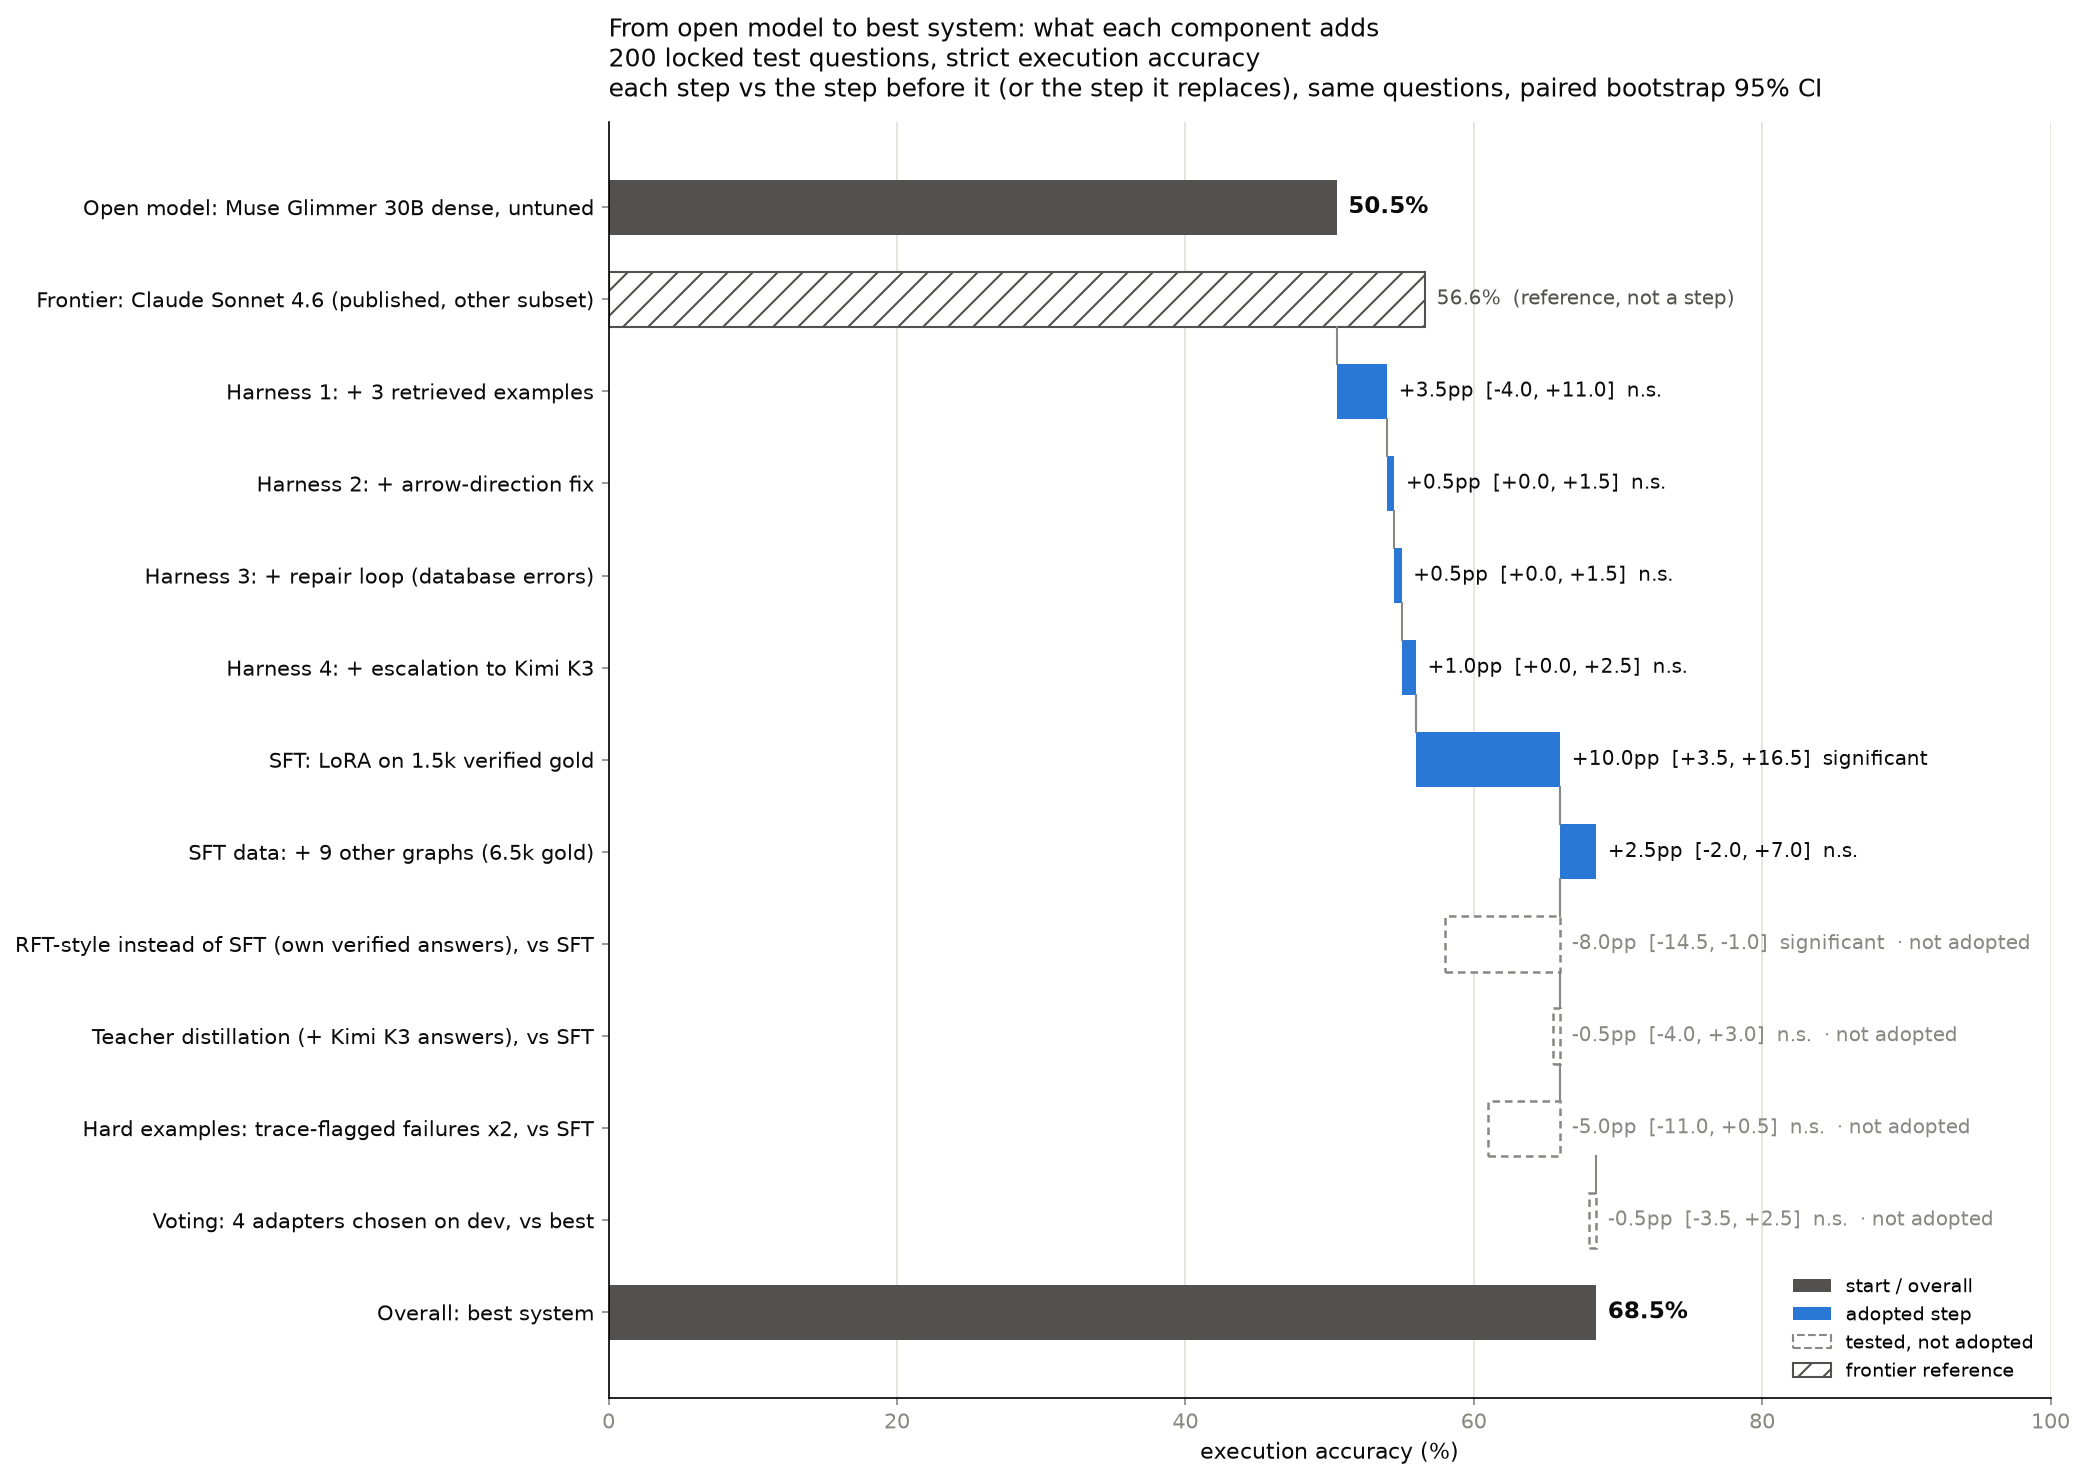
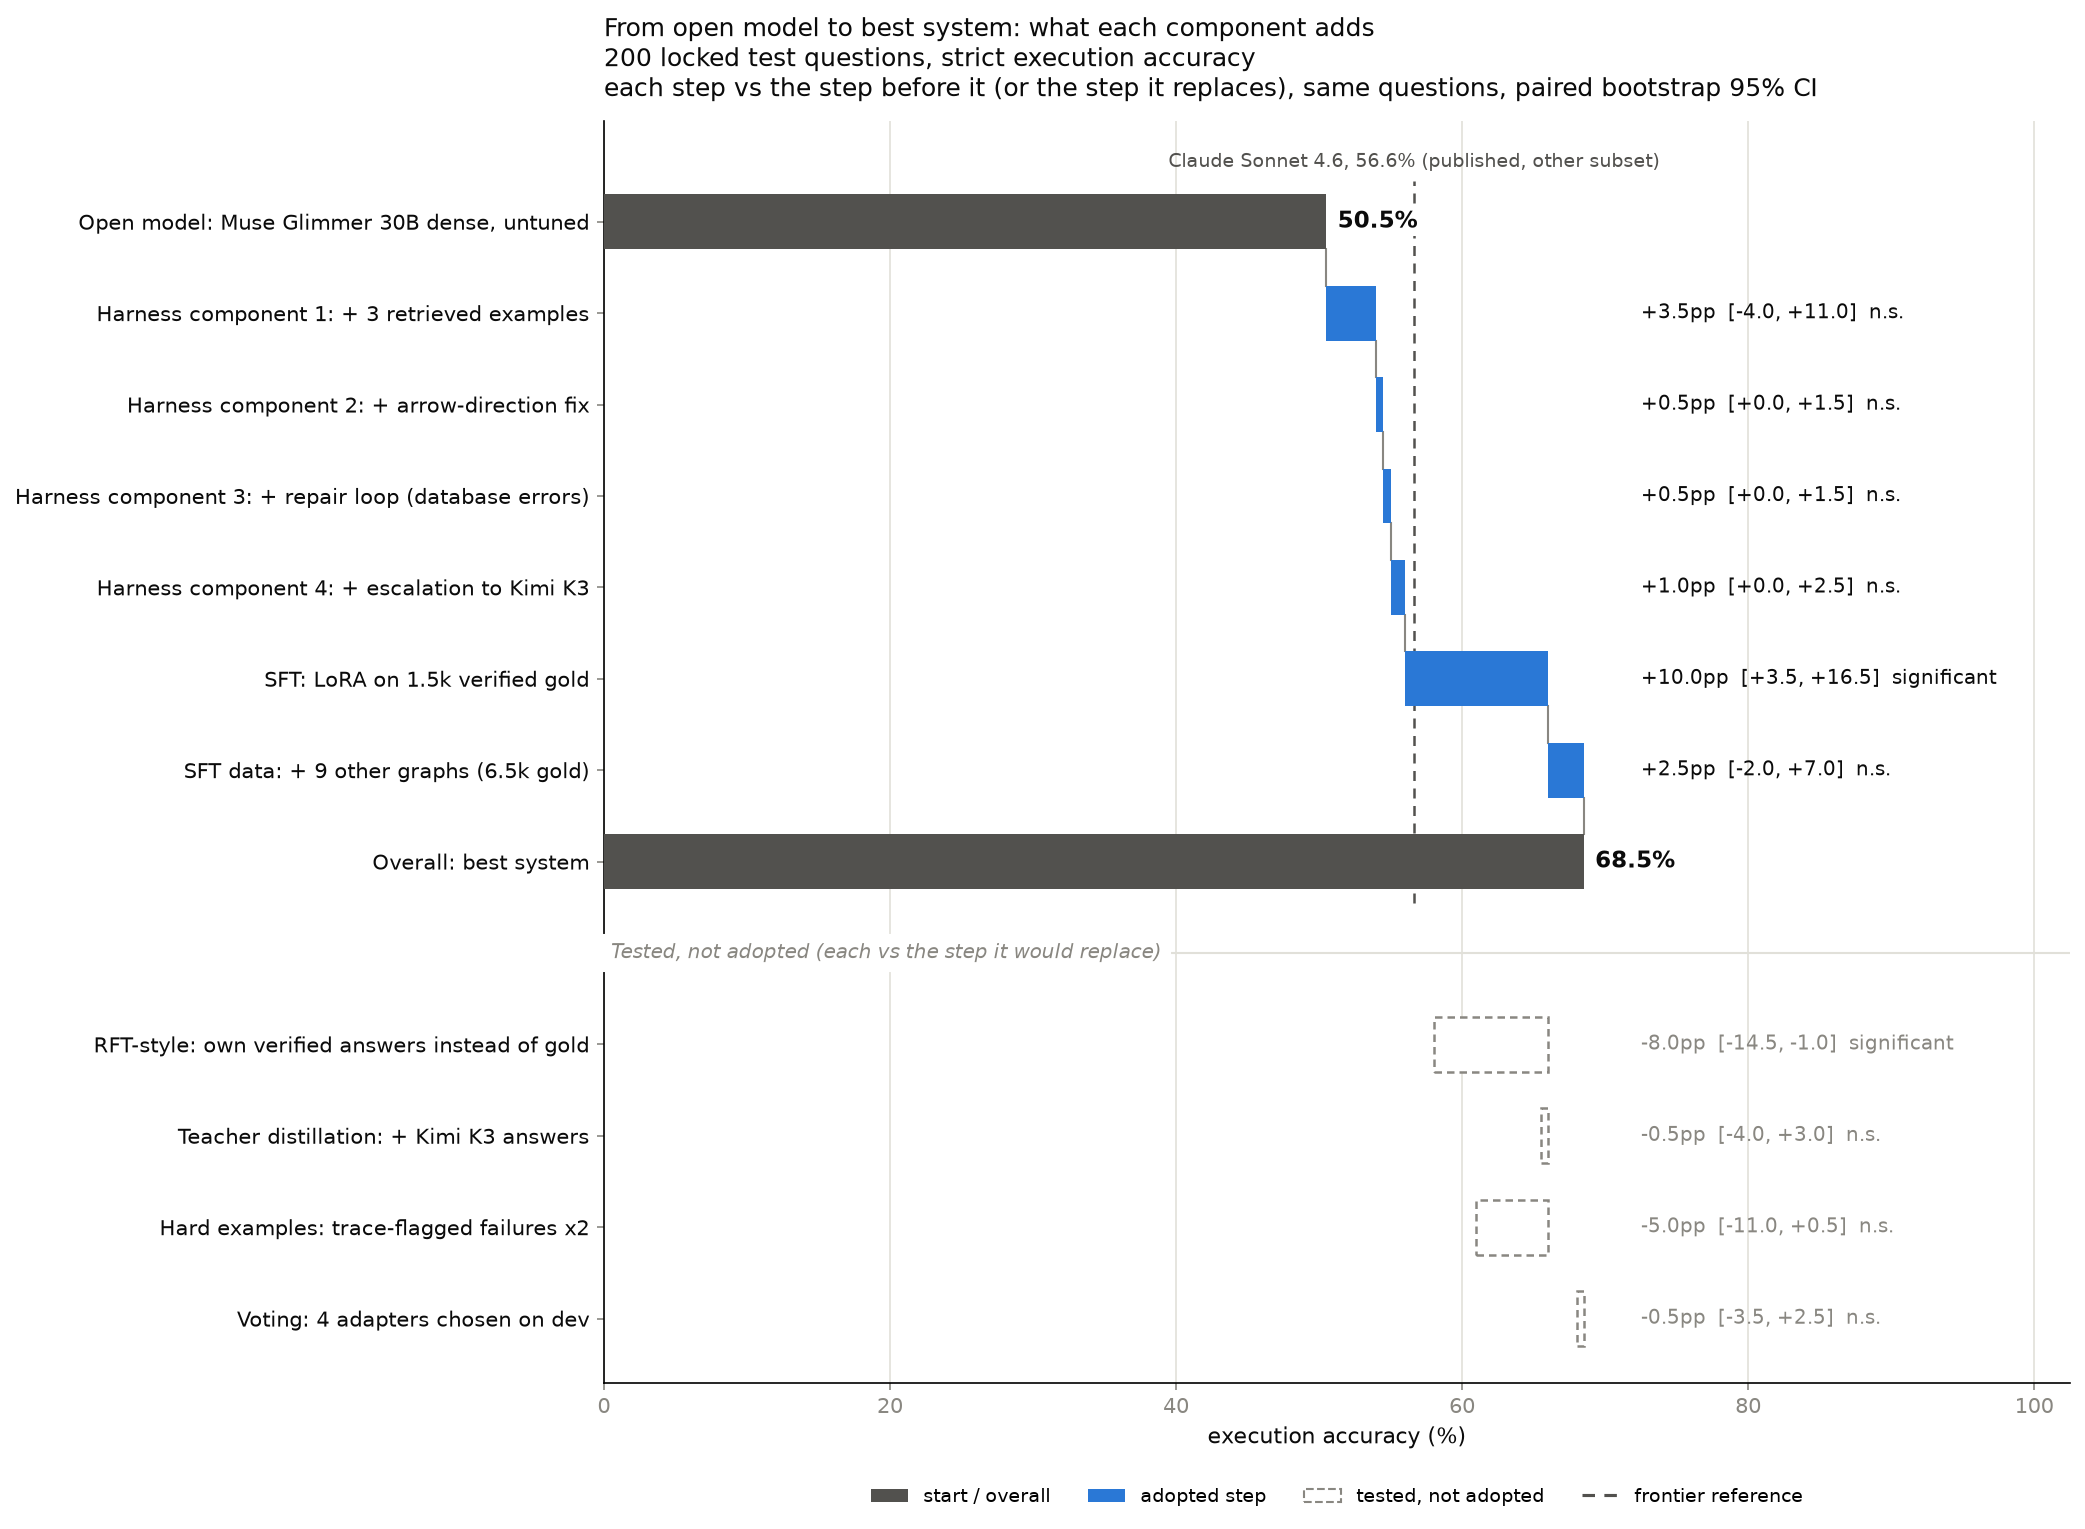
Waterfall charts: harness components, aligned labels, separate tested-not-adopted block

diff --git a/hackathon/cypher/dashboard/waterfall.py b/hackathon/cypher/dashboard/waterfall.py
@@ -6,13 +6,14 @@
 Each step is one result file read at one stage, compared with the previous step on the same questions (paired
 bootstrap 95% CI, compare.py). Steps that were tested but not adopted (they did not beat the step before) are drawn
 hollow and do not move the running total. The frontier is a published number on another subset, so it is a reference
-bar, not a step (it is omitted with --valid, where it would not be comparable).
+line, not a step (it is omitted with --valid, where it would not be comparable).
 """
 import json, os, sys
 
 import matplotlib
 matplotlib.use("Agg")
 import matplotlib.pyplot as plt
+from matplotlib.lines import Line2D
 from matplotlib.patches import Patch
 
 HERE = os.path.dirname(os.path.abspath(__file__))
@@ -28,20 +29,22 @@ START = ("Open model: Muse Glimmer 30B dense, untuned", "r1_base", "first")
 # (label, file, stage, adopted, compare_with). An adopted step becomes the new running total. A non-adopted step is an
 # alternative, compared with the step it would have replaced (compare_with = that step's file and stage).
 STEPS = [
-    ("Harness 1: + 3 retrieved examples", "r5_full", "first", True, None),
-    ("Harness 2: + arrow-direction fix", "r5_full", "fix", True, None),
-    ("Harness 3: + repair loop (database errors)", "r5_full", "repair", True, None),
-    ("Harness 4: + escalation to Kimi K3", "r5_full", "escalate", True, None),
+    ("Harness component 1: + 3 retrieved examples", "r5_full", "first", True, None),
+    ("Harness component 2: + arrow-direction fix", "r5_full", "fix", True, None),
+    ("Harness component 3: + repair loop (database errors)", "r5_full", "repair", True, None),
+    ("Harness component 4: + escalation to Kimi K3", "r5_full", "escalate", True, None),
     ("SFT: LoRA on 1.5k verified gold", "r6_ft1", "escalate", True, None),
     ("SFT data: + 9 other graphs (6.5k gold)", "r6bx_ftbx", "escalate", True, None),
-    ("RFT-style instead of SFT (own verified answers), vs SFT", "r7_ftd", "escalate", False, ("r6_ft1", "escalate")),
-    ("Teacher distillation (+ Kimi K3 answers), vs SFT", "r6kd_ftkd", "escalate", False, ("r6_ft1", "escalate")),
-    ("Hard examples: trace-flagged failures x2, vs SFT", "r6hf_fthf", "escalate", False, ("r6_ft1", "escalate")),
-    ("Voting: 4 adapters chosen on dev, vs best", "r20_vote_devpick", "first", False, None),
+    ("RFT-style: own verified answers instead of gold", "r7_ftd", "escalate", False, ("r6_ft1", "escalate")),
+    ("Teacher distillation: + Kimi K3 answers", "r6kd_ftkd", "escalate", False, ("r6_ft1", "escalate")),
+    ("Hard examples: trace-flagged failures x2", "r6hf_fthf", "escalate", False, ("r6_ft1", "escalate")),
+    ("Voting: 4 adapters chosen on dev", "r20_vote_devpick", "first", False, None),
 ]
 FRONTIER = 56.63  # claude-sonnet-4.6 zero-shot, CypherGuard (arxiv.org/html/2610.41755)
 
 INK, INK2, MUTED, GRID = "#0b0b0b", "#52514e", "#898781", "#e1e0d9"
+NOTE_GAP = 4  # the delta-label column starts this far right of the longest bar (and the frontier line)
+CLEAR = dict(facecolor="white", edgecolor="none", pad=1.5)
 UP, HOLD, TOTAL = "#2a78d6", "#c3c2b7", "#52514e"
 
 
@@ -54,7 +57,8 @@ def correct_by_id(tag, stage):
 def main():
     current = correct_by_id(*START[1:])
     start_acc = 100 * sum(current.values()) / len(current)
-    bars = [(START[0], 0, start_acc, "total", "")]
+    chain = [(START[0], 0, start_acc, "total", "")]  # the waterfall itself: start, adopted steps, overall
+    tried = []                                        # alternatives that were tested and not adopted
     level = start_acc
     for label, tag, stage, adopted, compare_with in STEPS:
         if not os.path.exists(os.path.join(ROOT, "results", f"{tag}.json")):
@@ -66,39 +70,64 @@ def main():
         sig = "significant" if lo > 0 or hi < 0 else "n.s."
         note = f"{diff:+.1f}pp  [{100 * lo:+.1f}, {100 * hi:+.1f}]  {sig}"
         if adopted:
-            bars.append((label, level, level + diff, "up" if diff >= 0 else "down", note))
+            chain.append((label, level, level + diff, "up", note))
             level += diff
             current = new
         else:  # drawn from the level of the step it is compared with
             ref_level = 100 * sum(ref.values()) / len(ref)
-            bars.append((label, ref_level, ref_level + diff, "hold", note + "  · not adopted"))
-    bars.append(("Overall: best system", 0, level, "total", ""))
-    if not VALID_ONLY:
-        bars.insert(1, ("Frontier: Claude Sonnet 4.6 (published, other subset)", 0, FRONTIER, "frontier", ""))
+            tried.append((label, ref_level, ref_level + diff, "hold", note))
+    chain.append(("Overall: best system", 0, level, "total", ""))
 
-    fig, ax = plt.subplots(figsize=(14, 0.62 * len(bars) + 1.9), dpi=150)
-    ys = list(range(len(bars)))[::-1]
-    for y, (label, a, b, kind, note) in zip(ys, bars):
+    # rows top to bottom: chain, a gap row, then the tested-but-not-adopted block
+    n_rows = len(chain) + (1 + len(tried) if tried else 0)
+    fig, ax = plt.subplots(figsize=(14, 0.62 * n_rows + 2.2), dpi=150)
+    top = n_rows - 1
+    chain_y = [top - k for k in range(len(chain))]
+    tried_y = [top - len(chain) - 1 - k for k in range(len(tried))]
+
+    ends = [max(a, b) for _, a, b, _, _ in chain + tried] + ([] if VALID_ONLY else [FRONTIER])
+    NOTE_X = max(ends) + NOTE_GAP  # one aligned column, clear of every bar and the frontier line
+    prev_end, prev_y = None, None
+    for y, (label, a, b, kind, note) in zip(chain_y, chain):
         lo_, hi_ = min(a, b), max(a, b)
         if kind == "total":
-            ax.barh(y, hi_, height=0.6, color=TOTAL)
-            ax.text(hi_ + 0.8, y, f"{hi_:.1f}%", va="center", fontsize=11, color=INK, fontweight="bold")
+            ax.barh(y, hi_, height=0.6, color=TOTAL, zorder=3)
+            ax.text(hi_ + 0.8, y, f"{hi_:.1f}%", va="center", fontsize=11, color=INK, fontweight="bold", bbox=CLEAR, zorder=4)
         elif kind == "frontier":
             ax.barh(y, hi_, height=0.6, color="white", edgecolor=INK2, hatch="//", linewidth=1)
             ax.text(hi_ + 0.8, y, f"{hi_:.1f}%  (reference, not a step)", va="center", fontsize=9.5, color=INK2)
+            continue  # not part of the chain: no connectors to or from it
         else:
-            if kind == "hold":
-                ax.barh(y, hi_ - lo_, left=lo_, height=0.6, color="white", edgecolor=MUTED, linewidth=1.2,
-                        linestyle=(0, (3, 2)))
-            else:
-                ax.barh(y, max(hi_ - lo_, 0.25), left=lo_, height=0.6, color=UP)
-            ax.text(hi_ + 0.8, y, note, va="center", fontsize=9.5, color=INK if kind != "hold" else MUTED)
-        if kind in ("up", "down", "hold"):  # connector from the running total
-            ax.plot([a, a], [y + 0.3, y + 0.7], color=MUTED, linewidth=1)
-    ax.set_yticks(ys, [b[0] for b in bars], fontsize=10)
+            ax.barh(y, max(hi_ - lo_, 0.25), left=lo_, height=0.6, color=UP, zorder=3)
+            ax.text(NOTE_X, y, note, va="center", fontsize=9.5, color=INK, zorder=4)
+        if prev_end is not None:  # connector: previous running total down to this bar
+            ax.plot([prev_end, prev_end], [prev_y - 0.3, y + 0.3], color=MUTED, linewidth=1)
+        prev_end, prev_y = (hi_ if kind == "total" else b), y
+
+    if not VALID_ONLY:  # frontier: a reference line over the chain rows, not a step (published, other subset)
+        ax.plot([FRONTIER, FRONTIER], [chain_y[-1] - 0.45, top + 0.45], color=INK2, linestyle=(0, (4, 3)), linewidth=1.2,
+                zorder=2)
+        ax.text(FRONTIER, top + 0.55, f"Claude Sonnet 4.6, {FRONTIER:.1f}% (published, other subset)",
+                ha="center", va="bottom", fontsize=9, color=INK2)
+
+    if tried:
+        gap_y = top - len(chain)
+        ax.axhline(gap_y, color=GRID, linewidth=1)
+        ax.text(0.5, gap_y, "Tested, not adopted (each vs the step it would replace)", va="center", fontsize=9.5,
+                color=MUTED, style="italic", backgroundcolor="white")
+        for y, (label, a, b, kind, note) in zip(tried_y, tried):
+            lo_, hi_ = min(a, b), max(a, b)
+            ax.barh(y, max(hi_ - lo_, 0.25), left=lo_, height=0.6, color="white", edgecolor=MUTED, linewidth=1.2,
+                    linestyle=(0, (3, 2)))
+            ax.text(NOTE_X, y, note, va="center", fontsize=9.5, color=MUTED, zorder=4)
+
+    labels = {y: c[0] for y, c in zip(chain_y, chain)} | {y: t[0] for y, t in zip(tried_y, tried)}
+    ax.set_yticks(list(labels), list(labels.values()), fontsize=10)
+    ax.set_ylim(-0.7, top + 1.1)
     ax.tick_params(colors=MUTED)
     ax.tick_params(axis="y", labelcolor=INK)
-    ax.set_xlim(0, 100)
+    ax.set_xlim(0, NOTE_X + 30)
+    ax.set_xticks(range(0, 101, 20))
     ax.set_xlabel("execution accuracy (%)", fontsize=10.5, color=INK)
     ax.xaxis.grid(True, color=GRID)
     ax.set_axisbelow(True)
@@ -110,8 +139,8 @@ def main():
                  loc="left", fontsize=12, color=INK, pad=12)
     ax.legend(handles=[Patch(facecolor=TOTAL, label="start / overall"), Patch(facecolor=UP, label="adopted step"),
                        Patch(facecolor="white", edgecolor=MUTED, linestyle="--", label="tested, not adopted")]
-              + ([Patch(facecolor="white", edgecolor=INK2, hatch="//", label="frontier reference")] if not VALID_ONLY else []),
-              loc="lower right", fontsize=9, frameon=False)
+              + ([Line2D([0], [0], color=INK2, linestyle=(0, (4, 3)), label="frontier reference")] if not VALID_ONLY else []),
+              loc="upper center", bbox_to_anchor=(0.5, -0.07), ncol=4, fontsize=9, frameon=False)  # below the axis
     fig.tight_layout()
     out = os.path.join(HERE, "waterfall_valid.png" if VALID_ONLY else "waterfall.png")
     fig.savefig(out, facecolor="white", bbox_inches="tight")
